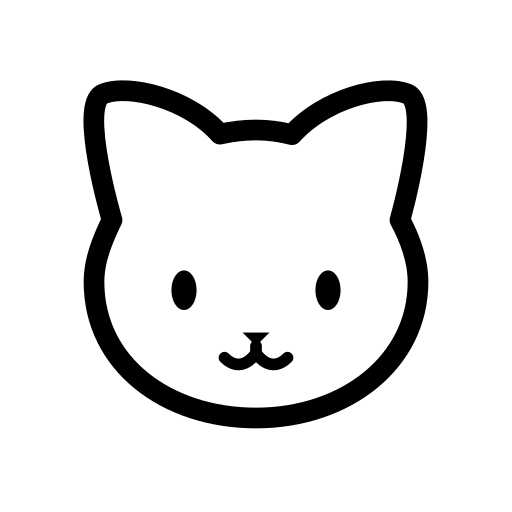
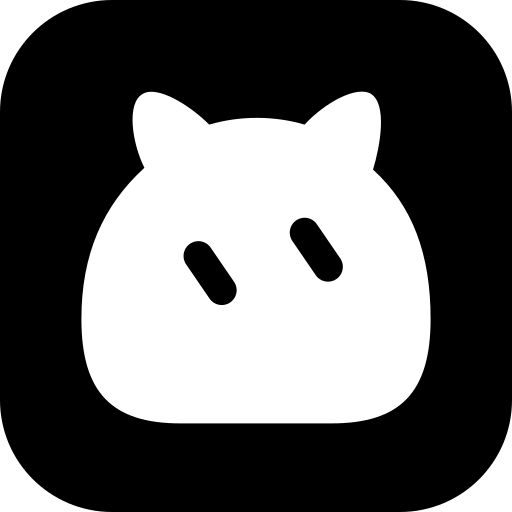
feat: add rounded monochrome cat artwork
Use a black background with rounded white cat artwork and diagonal eyes. Keep awake/sleeping connection states and build 0.8.94+2026101502.

diff --git a/test/tool/generate_app_icon_test.dart b/test/tool/generate_app_icon_test.dart
@@ -64,7 +64,7 @@ Future<void> main() async {
     expect(background, contains('<rect width="512" height="512"'));
     expect(background, isNot(contains('rx=')));
     expect(background, isNot(contains('<path')));
-    expect(background, contains('fill="#FFFFFF"'));
+    expect(background, contains('fill="#000000"'));
     expect(foreground, isNot(contains('<rect')));
     final awake = File('assets/images/cat_awake.svg').readAsStringSync();
     final sleeping = File('assets/images/cat_sleeping.svg').readAsStringSync();
@@ -130,11 +130,11 @@ Future<void> main() async {
       for (final point in [(0, 0), (431, 0), (0, 431), (431, 431), (0, 216)]) {
         expect(_pixel(foregroundData, 432, point.$1, point.$2).last, 0);
       }
-      expect(_pixel(foregroundData, 432, 216, 216).last, 255);
-      expect(_pixel(backgroundData, 512, 256, 256), [255, 255, 255, 255]);
-      expect(_pixel(foregroundData, 432, 216, 297), [0, 0, 0, 255]);
+      expect(_pixel(foregroundData, 432, 216, 216), [255, 255, 255, 255]);
+      expect(_pixel(backgroundData, 512, 256, 256), [0, 0, 0, 255]);
+      expect(_pixel(foregroundData, 432, 170, 233), [0, 0, 0, 255]);
 
-      // Layering must leave the white background visible outside the cat.
+      // Layering must leave the black background visible outside the cat.
       final recorder = ui.PictureRecorder();
       final canvas = ui.Canvas(recorder);
       canvas.drawImage(background, ui.Offset.zero, ui.Paint());

diff --git a/lib/views/dashboard/widgets/simple_connection.dart b/lib/views/dashboard/widgets/simple_connection.dart
@@ -845,7 +845,7 @@ class _ConnectionIndicatorState extends State<ConnectionIndicator>
                 height: 64,
                 decoration: BoxDecoration(
                   shape: BoxShape.circle,
-                  color: Colors.white,
+                  color: Colors.black,
                   border: Border.all(color: ringColor, width: 1.5),
                 ),
                 child: Stack(
@@ -856,7 +856,7 @@ class _ConnectionIndicatorState extends State<ConnectionIndicator>
                         dimension: 56,
                         child: CircularProgressIndicator(
                           value: reducedMotion ? 0.65 : null,
-                          color: Colors.black,
+                          color: Colors.white,
                           strokeWidth: 3,
                         ),
                       ),
@@ -894,7 +894,7 @@ class _ConnectionIndicatorState extends State<ConnectionIndicator>
                           Icons.error_rounded,
                           key: Key('harmony_connection_error'),
                           size: 18,
-                          color: Colors.black,
+                          color: Colors.white,
                         ),
                       ),
                   ],

diff --git a/test/widgets/simple_dashboard_test.dart b/test/widgets/simple_dashboard_test.dart
@@ -229,7 +229,17 @@ void main() {
             matching: find.byType(AnimatedContainer),
           ),
         );
-        expect((disc.decoration! as BoxDecoration).color, Colors.white);
+        expect((disc.decoration! as BoxDecoration).color, Colors.black);
+        if (busy) {
+          expect(
+            tester
+                .widget<CircularProgressIndicator>(
+                  find.byType(CircularProgressIndicator),
+                )
+                .color,
+            Colors.white,
+          );
+        }
         expect(tester.getSize(primaryConnectionControl), const Size(64, 64));
         await tester.tap(primaryConnectionControl);
         expect(toggles, busy ? 0 : 1);
